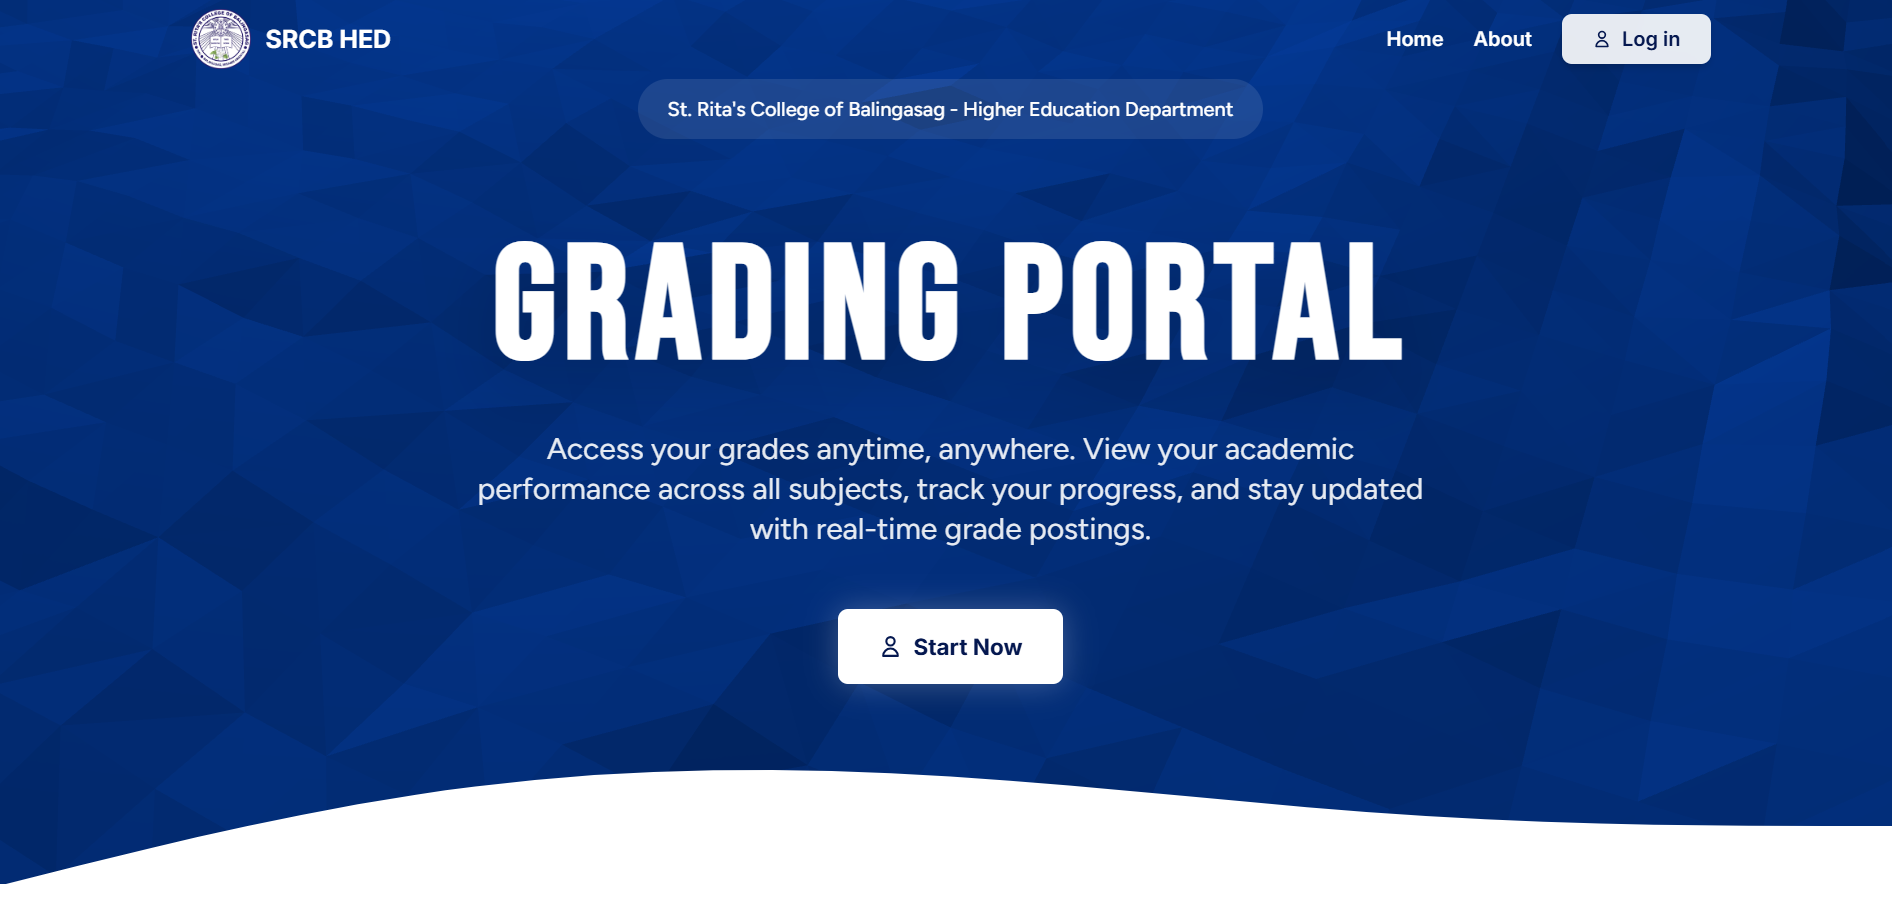
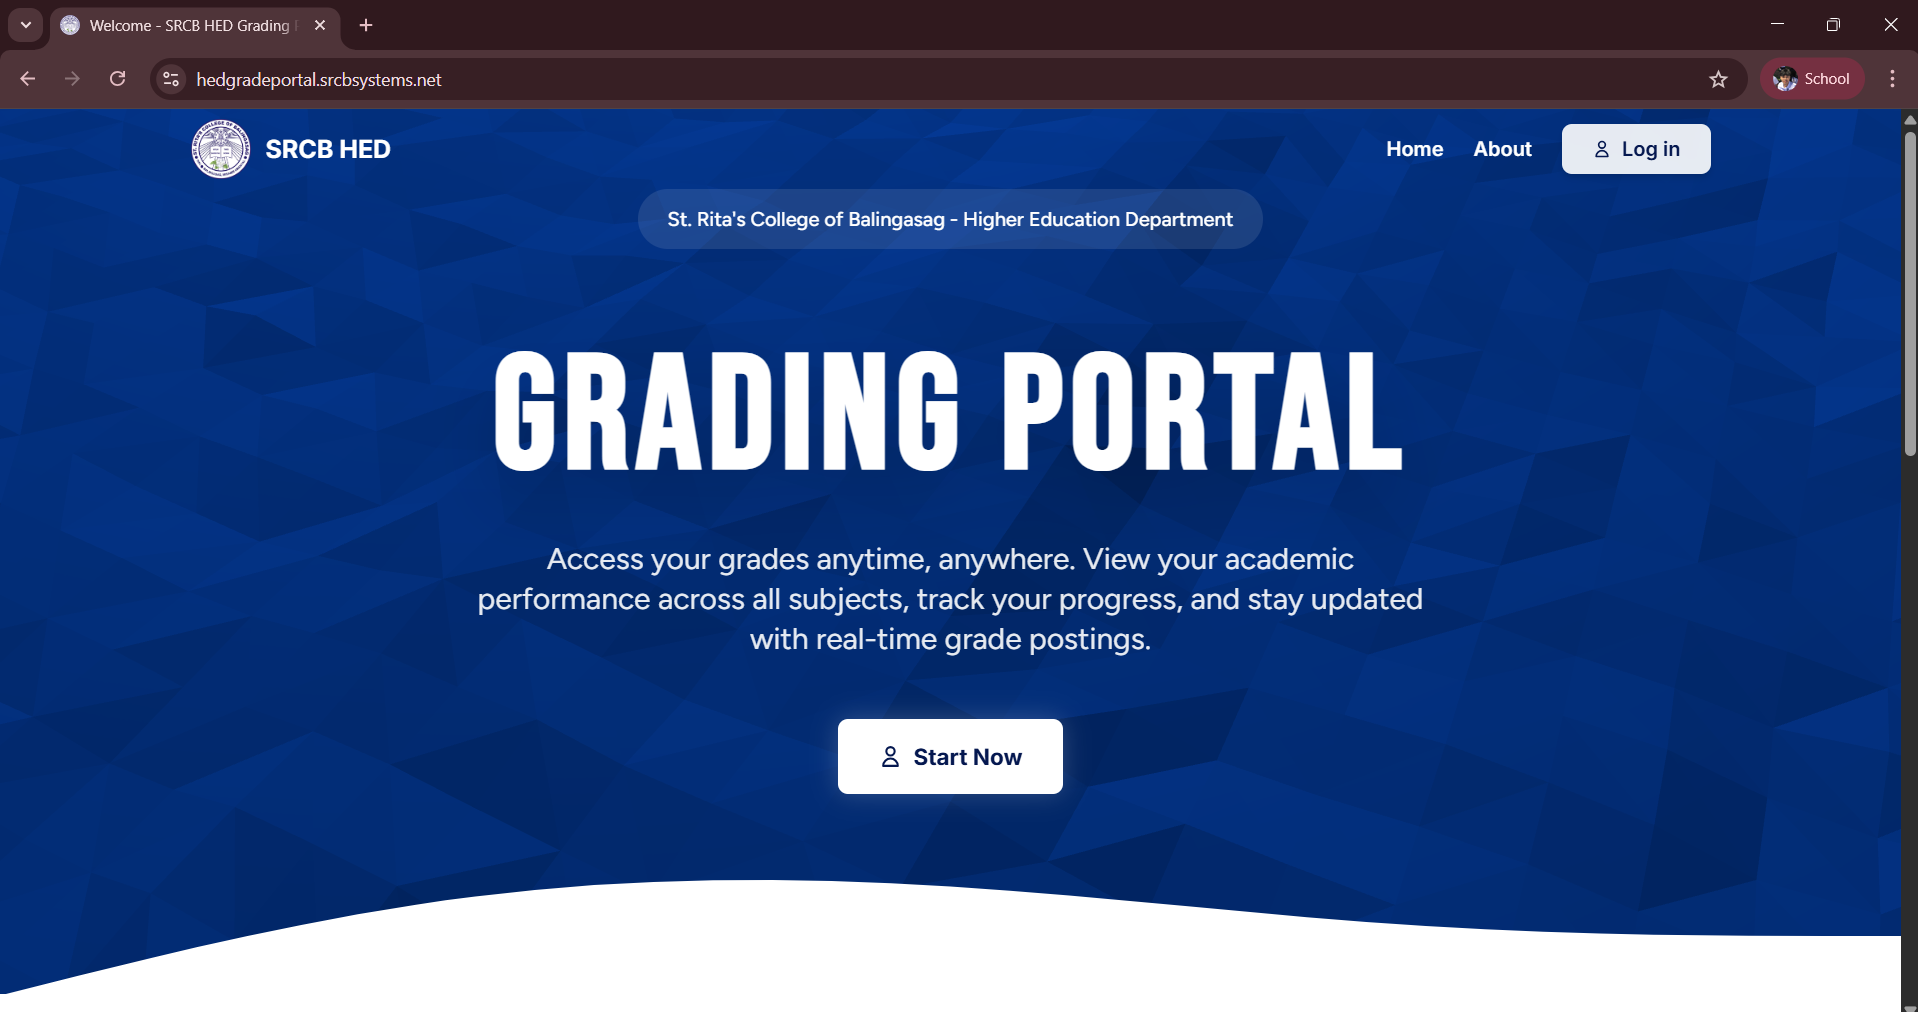
adjustments

diff --git a/pages/HomePart/PortfolioNav/Works.js b/pages/HomePart/PortfolioNav/Works.js
@@ -158,6 +158,16 @@ const projectList = [
         image: "/WorksAssets/DICTtodapp_imgs/dicttod1.png",
         imagesFolder: "DICTtodapp_imgs"
     },
+        {
+        id: 13,
+        title: "SRCB HED Online Assessment",
+        year: "2026",
+        description: "Our Capstone Project — a full-featured Online Assessment System developed for SRCB's Higher Education Department. The system includes AI-powered essay scoring, eye tracking, facial recognition for identity verification, browser lockdown to prevent cheating, and item randomization to ensure exam integrity. Built to provide a secure, modern, and reliable online examination experience for both students and faculty.",
+        category: "Web App",
+        livePreview:"https://sas.srcbsystems.com/",
+        image: "/WorksAssets/SrcbHoa_imgs/srcbhoapage1.png",
+        imagesFolder: "SrcbHoa_imgs"
+    },
 ];
 
 const itemsPerPage = 6;
@@ -176,9 +186,10 @@ function Works() {
     const [currentPage, setCurrentPage] = useState(1);
     const [selectedWork, setSelectedWork] = useState(null);
 
-    const filteredProjects = selectedCategory
+    const filteredProjects = (selectedCategory
         ? projectList.filter(project => project.category === selectedCategory)
-        : projectList;
+        : [...projectList]
+    ).sort((a, b) => parseInt(b.year) - parseInt(a.year));
 
     const totalPages = Math.ceil(filteredProjects.length / itemsPerPage);
     const paginatedProjects = filteredProjects.slice(
@@ -200,7 +211,7 @@ function Works() {
         <div className='w-full flex flex-col items-center px-2 md:px-4'>
             {/* Category Filter Tabs */}
             <p className="text-sm text-gray-400 mb-6">(This is just a selection of my work—I'm still compiling more.)</p>
-            <div className="flex flex-wrap justify-center gap-2 md:gap-3 mb-10 w-full">
+            <div className="flex flex-wrap justify-center gap-1.5 mb-8 w-full">
                 {categories.map((cat) => {
                     const isActive = selectedCategory === cat.value;
                     const count = getProjectCount(cat.value);
@@ -210,25 +221,15 @@ function Works() {
                         <motion.button
                             key={cat.value}
                             onClick={() => handleCategoryChange(cat.value)}
-                            whileHover={{ scale: 1.05, y: -2 }}
-                            whileTap={{ scale: 0.95 }}
-                            className={`relative px-4 md:px-6 py-2.5 md:py-3 rounded-xl font-medium text-sm md:text-base transition-all duration-300 backdrop-blur-sm ${isActive ? 'bg-gradient-to-r from-blue-500 to-cyan-500 text-white shadow-lg shadow-blue-500/50' : 'bg-white/5 text-gray-300 hover:bg-white/10 hover:text-gray-100 border border-white/10 hover:border-blue-400/20'}`}
+                            whileHover={{ scale: 1.03 }}
+                            whileTap={{ scale: 0.97 }}
+                            className={`relative flex items-center gap-1.5 px-3 py-1.5 rounded-full text-xs font-medium transition-all duration-200 border ${isActive ? 'bg-gradient-to-r from-blue-500 to-cyan-500 border-transparent text-white shadow-md shadow-blue-500/30' : 'bg-white/5 border-white/10 text-gray-400 hover:text-gray-200 hover:border-white/20 hover:bg-white/8'}`}
                         >
-                            <span className="flex items-center gap-2">
-                                <IconComponent className="text-lg" />
-                                <span>{cat.label}</span>
-                                <span className={`text-xs px-2 py-0.5 rounded-full ${isActive ? 'bg-white/20' : 'bg-white/10'}`}>
-                                    {count}
-                                </span>
+                            <IconComponent className="text-[11px] shrink-0" />
+                            <span>{cat.label}</span>
+                            <span className={`text-[10px] px-1.5 py-0.5 rounded-full leading-none ${isActive ? 'bg-white/25 text-white' : 'bg-white/10 text-gray-500'}`}>
+                                {count}
                             </span>
-
-                            {isActive && (
-                                <motion.div
-                                    layoutId="activeWorkTab"
-                                    className="absolute inset-0 bg-gradient-to-r from-blue-500 to-cyan-500 rounded-xl -z-10"
-                                    transition={{ type: "spring", bounce: 0.2, duration: 0.6 }}
-                                />
-                            )}
                         </motion.button>
                     );
                 })}

diff --git a/pages/HomePart/PortfolioNav/Awards.js b/pages/HomePart/PortfolioNav/Awards.js
@@ -175,7 +175,7 @@ function Awards() {
     return (
         <div className='w-full flex flex-col items-center min-h-screen'>
             {/* Category Filter Tabs */}
-            <div className="flex flex-wrap justify-center gap-2 md:gap-3 mb-8 w-full max-w-full">
+            <div className="flex flex-wrap justify-center gap-1.5 mb-8 w-full max-w-full">
                 {categories.map((cat) => {
                     const isActive = selectedCategory === cat.value;
                     const count = getAwardCount(cat.value);
@@ -185,30 +185,15 @@ function Awards() {
                         <motion.button
                             key={cat.value}
                             onClick={() => setSelectedCategory(cat.value)}
-                            whileHover={{ scale: 1.05, y: -2 }}
-                            whileTap={{ scale: 0.95 }}
-                            className={`relative px-4 md:px-6 py-2.5 md:py-3 rounded-xl font-medium text-sm md:text-base
-                                       transition-all duration-300 backdrop-blur-sm
-                                       ${isActive 
-                                         ? 'bg-gradient-to-r from-blue-500 to-cyan-500 text-white shadow-lg shadow-blue-500/50' 
-                                         : 'bg-white/5 text-gray-300 hover:bg-white/10 hover:text-gray-100 border border-white/10 hover:border-blue-400/20'
-                                       }`}
+                            whileHover={{ scale: 1.03 }}
+                            whileTap={{ scale: 0.97 }}
+                            className={`flex items-center gap-1.5 px-3 py-1.5 rounded-full text-xs font-medium transition-all duration-200 border ${isActive ? 'bg-gradient-to-r from-blue-500 to-cyan-500 border-transparent text-white shadow-md shadow-blue-500/30' : 'bg-white/5 border-white/10 text-gray-400 hover:text-gray-200 hover:border-white/20 hover:bg-white/8'}`}
                         >
-                            <span className="flex items-center gap-2">
-                                <IconComponent className="text-lg" />
-                                <span>{cat.label}</span>
-                                <span className={`text-xs px-2 py-0.5 rounded-full ${isActive ? 'bg-white/20' : 'bg-white/10'}`}>
-                                    {count}
-                                </span>
+                            <IconComponent className="text-[11px] shrink-0" />
+                            <span>{cat.label}</span>
+                            <span className={`text-[10px] px-1.5 py-0.5 rounded-full leading-none ${isActive ? 'bg-white/25 text-white' : 'bg-white/10 text-gray-500'}`}>
+                                {count}
                             </span>
-
-                            {isActive && (
-                                <motion.div
-                                    layoutId="activeAwardTab"
-                                    className="absolute inset-0 bg-gradient-to-r from-blue-500 to-cyan-500 rounded-xl -z-10"
-                                    transition={{ type: "spring", bounce: 0.2, duration: 0.6 }}
-                                />
-                            )}
                         </motion.button>
                     );
                 })}

diff --git a/pages/HomePart/PortfolioNav/Skills.js b/pages/HomePart/PortfolioNav/Skills.js
@@ -224,7 +224,7 @@ function Skills() {
   return (
     <div className="w-full flex flex-col items-center">
       {/* Animated Tab Filters */}
-      <div className="flex flex-wrap justify-center gap-2 md:gap-3 mb-8 w-full max-w-full">
+      <div className="flex flex-wrap justify-center gap-1.5 mb-8 w-full max-w-full">
         {categories.map((cat) => {
           const isActive = selectedCategory === cat.value;
           const count = getSkillCount(cat.value);
@@ -234,30 +234,15 @@ function Skills() {
             <motion.button
               key={cat.value}
               onClick={() => setSelectedCategory(cat.value)}
-              whileHover={{ scale: 1.05, y: -2 }}
-              whileTap={{ scale: 0.95 }}
-              className={`relative px-4 md:px-6 py-2.5 md:py-3 rounded-xl font-medium text-sm md:text-base
-                         transition-all duration-300 backdrop-blur-sm
-                         ${isActive 
-                           ? 'bg-gradient-to-r from-blue-500 to-cyan-500 text-white shadow-lg shadow-blue-500/50' 
-                           : 'bg-white/5 text-gray-300 hover:bg-white/10 hover:text-gray-100 border border-white/10 hover:border-blue-400/20'
-                         }`}
+              whileHover={{ scale: 1.03 }}
+              whileTap={{ scale: 0.97 }}
+              className={`flex items-center gap-1.5 px-3 py-1.5 rounded-full text-xs font-medium transition-all duration-200 border ${isActive ? 'bg-gradient-to-r from-blue-500 to-cyan-500 border-transparent text-white shadow-md shadow-blue-500/30' : 'bg-white/5 border-white/10 text-gray-400 hover:text-gray-200 hover:border-white/20 hover:bg-white/8'}`}
             >
-              <span className="flex items-center gap-2">
-                <IconComponent className="text-lg" />
-                <span>{cat.label}</span>
-                <span className={`text-xs px-2 py-0.5 rounded-full ${isActive ? 'bg-white/20' : 'bg-white/10'}`}>
-                  {count}
-                </span>
+              <IconComponent className="text-[11px] shrink-0" />
+              <span>{cat.label}</span>
+              <span className={`text-[10px] px-1.5 py-0.5 rounded-full leading-none ${isActive ? 'bg-white/25 text-white' : 'bg-white/10 text-gray-500'}`}>
+                {count}
               </span>
-              
-              {isActive && (
-                <motion.div
-                  layoutId="activeTab"
-                  className="absolute inset-0 bg-gradient-to-r from-blue-500 to-cyan-500 rounded-xl -z-10"
-                  transition={{ type: "spring", bounce: 0.2, duration: 0.6 }}
-                />
-              )}
             </motion.button>
           );
         })}
